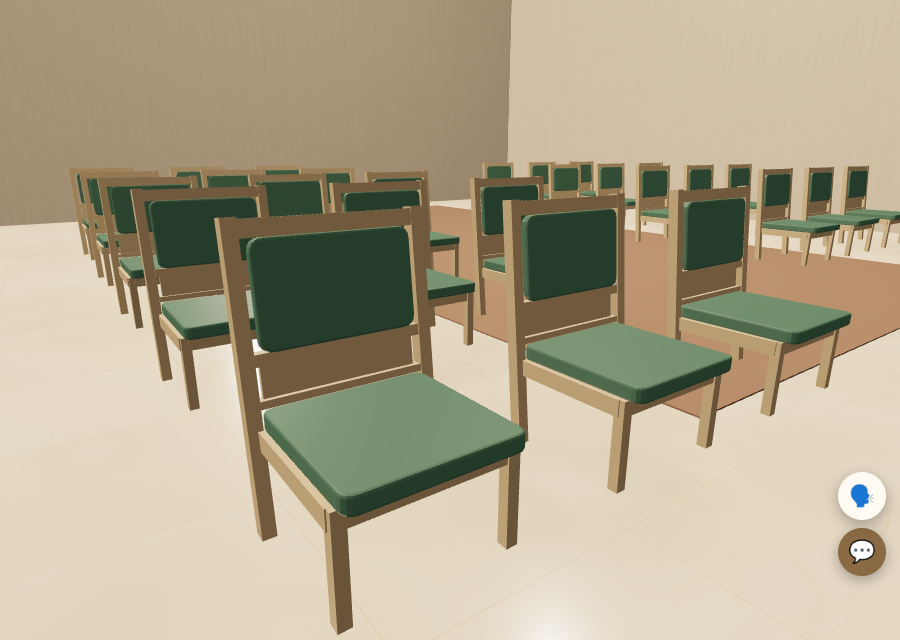
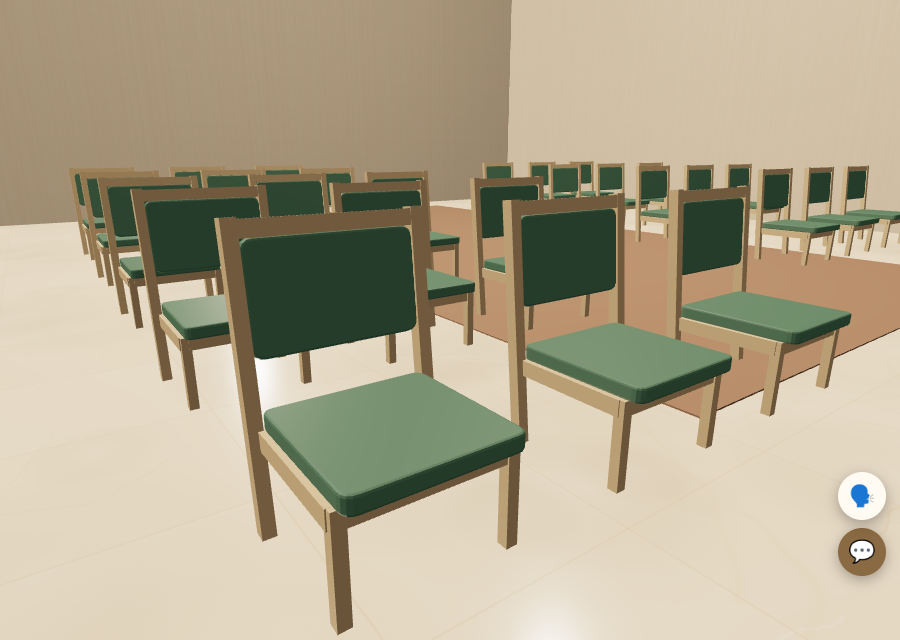
소예배실 의자: 등받이 아래 원목 판·띠 없애고 방석과 등판 사이를 비움, 초록 등판을 기둥 사이에 꽉 차게
Claude-Session: https://claude.ai/code/session_01Vz1QJf3UdmpjXu7m5EnhFF

diff --git a/index.html b/index.html
@@ -1996,7 +1996,7 @@
         k.box(0.06, 1.0, 0.06, cx, 1.0, -15.55, k.mWood); k.box(0.5, 0.06, 0.06, cx, 1.65, -15.55, k.mWood);   // 북쪽 벽 십자가
         k.box(0.32, 0.5, 0.32, cx - 1.6, 0.1, -15.15, k.M(0x2b2b2b, 0.3)); k.box(0.5, 0.06, 0.22, cx - 1.6, 0.6, -15.2, k.M(0x111111, 0.3));   // 작은 디지털 피아노
         k.box(2.4, 0.012, 4.5, cx, 0, -11.2, k.M(0xa8846a, 0.95));                // 가운데 통로 카펫
-        // 개인 의자 (사용자가 보여 준 교회 의자 분위기만 참고): 밝은 원목 틀 + 초록 가죽 방석·등받이, 등받이 아래 원목 판, 살짝 뒤로 기운 등받이
+        // 개인 의자 (사용자가 보여 준 교회 의자 분위기만 참고): 밝은 원목 틀 + 초록 가죽 방석·등받이, 살짝 뒤로 기운 등받이
         //   앉는 높이·크기는 예전 의자와 같음(윗면 0.20m, 폭 0.30m). 30개가 같은 모양 두 개(원목 · 초록)를 함께 써서 가벼움 (의자마다 2조각)
         {
           const woodM = new THREE.MeshStandardMaterial({ color: 0xe0c296, roughness: 0.6 }), padM = new THREE.MeshStandardMaterial({ color: 0x62806a, emissive: 0x18261c, roughness: 0.5 });   // 세운 등판이 너무 어두워 보여 살짝 스스로 밝게
@@ -2013,10 +2013,11 @@
           });
           W.push(bx(0.25, 0.03, 0.014, 0, 0.142, 0.12), bx(0.25, 0.03, 0.014, 0, 0.142, -0.115));                    // 앞·뒤 띠
           G.push(pad(0.268, 0.028, 0.27).translate(0, 0.172, 0.02));                                                  // 방석 (윗면 0.20)
-          // 등받이: 아래 띠 · 들어간 원목 판 · 가운데 띠 · 초록 등판 · 위 띠 → 뒤로 기울여 방석 뒤에 세움
+          // 등받이: 초록 등판(양쪽 기둥 사이에 꽉 차게) · 위 원목 띠 → 뒤로 기울여 방석 뒤에 세움.
+          //   사용자 "가운데 판자가 왜 있는지" → 등판 아래 원목 판·띠는 없애고 방석과 등판 사이를 비움
           const back = (g) => g.rotateX(TILT).translate(0, 0.2, -0.12);
-          [bx(0.27, 0.012, 0.02, 0, 0, 0), bx(0.25, 0.05, 0.008, 0, 0.012, -0.004), bx(0.27, 0.018, 0.02, 0, 0.062, 0), bx(0.312, 0.026, 0.024, 0, 0.24, 0)].forEach((g) => W.push(back(g)));
-          G.push(back(pad(0.25, 0.018, 0.16).rotateX(Math.PI / 2).translate(0, 0.16, 0)));
+          W.push(back(bx(0.312, 0.026, 0.024, 0, 0.24, 0)));
+          G.push(back(pad(0.27, 0.018, 0.17).rotateX(Math.PI / 2).translate(0, 0.155, -0.009)));
           const woodG = mergeGeometries(W), padG = mergeGeometries(G); W.concat(G).forEach((g) => g.dispose());
           [-13.4, -12.65, -11.9, -11.15, -10.4].forEach((z) => {
             [-11.55, -11.05, -10.55, -8.7, -8.2, -7.7].forEach((x) => {                                                 // 강단(북쪽)을 바라봄, 앉으면 기도

diff --git a/docs/verification/2026-11-08/REPORT.md b/docs/verification/2026-11-08/REPORT.md
@@ -45,3 +45,8 @@
 - 앞다리 3.2cm → 2cm, 뒷기둥 3.4 × 3.6cm → 2.2 × 2.4cm, 띠 4.5 × 2.4cm → 3 × 1.4cm, 방석 4.2cm → 2.8cm, 등판 3cm → 1.8cm, 위 띠 4 × 3.6cm → 2.6 × 2.4cm, 둥근 모서리 6mm → 4mm
 - 등받이 윗면 0.527m → 0.47m (사진 비율에 가깝게), 앉는 높이 0.20m 그대로
 - 확인: 화면 오류 없음, 앉을 자리 30개, 눌러서 앉으면 정확히 앉고 기도 자세. 사진(덮어씀): chapel-rows.png, chapel-close.png, chapel-side.png
+
+## 이어서: "가운데 판자가 왜 있는지 모르겠어" (사용자가 등받이 아래에 동그라미)
+- 등판 아래 원목 띠 · 들어간 원목 판 · 가운데 띠를 없애 방석과 등판 사이를 비움
+- 초록 등판을 양쪽 기둥 사이에 꽉 차게(폭 0.27m, 높이 0.17m), 위 원목 띠만 남김
+- 확인: 화면 오류 없음, 앉을 자리 30개, 정확히 앉고 기도 자세. 사진(덮어씀): chapel-rows.png, chapel-close.png, chapel-side.png
